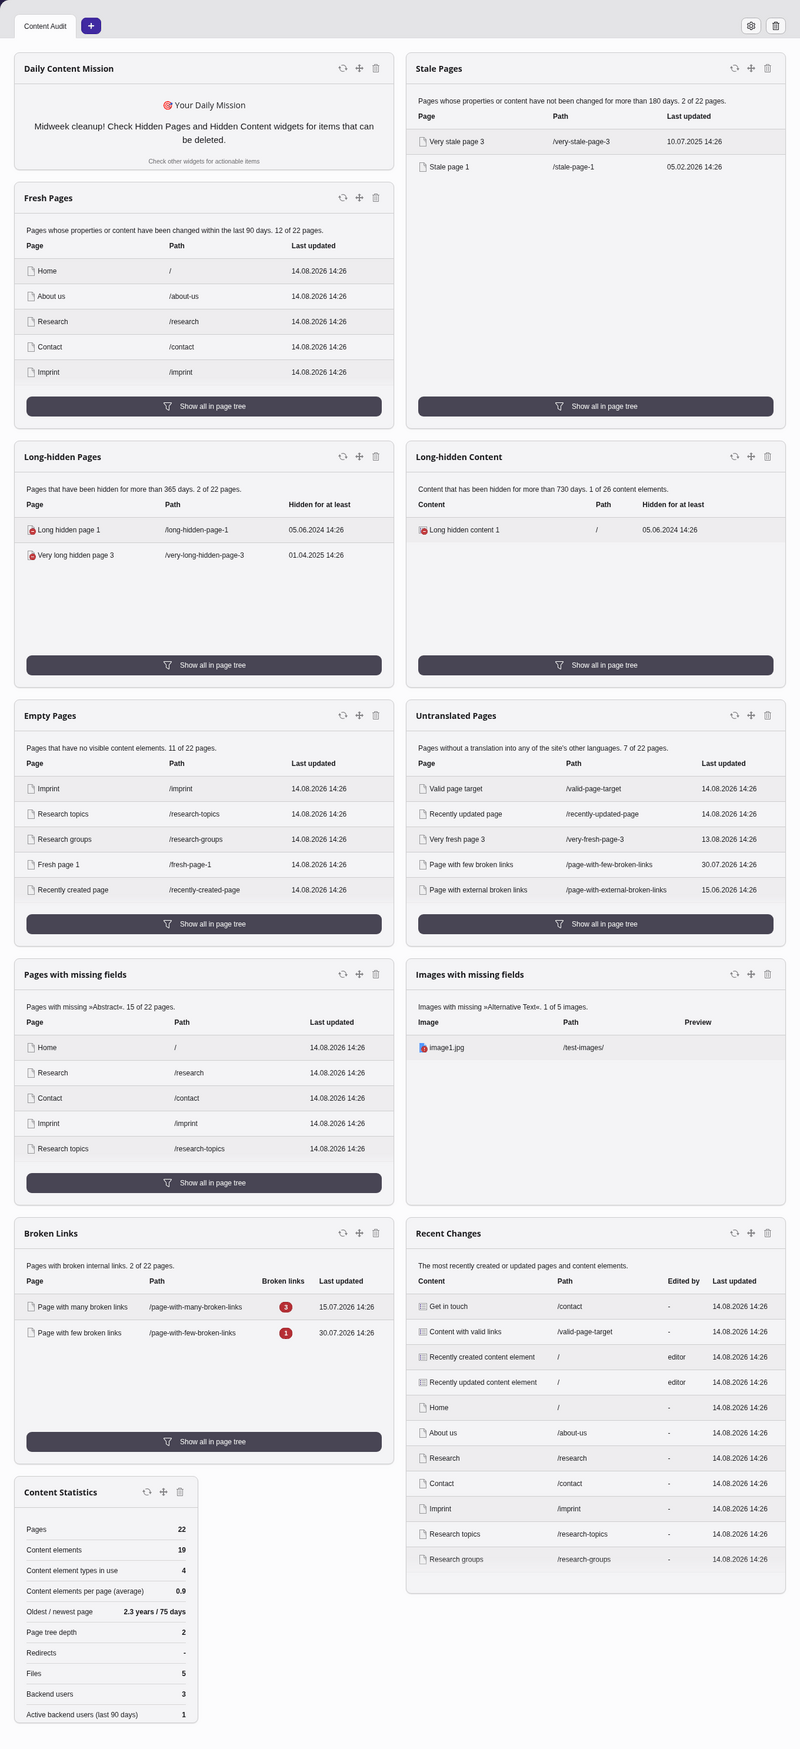
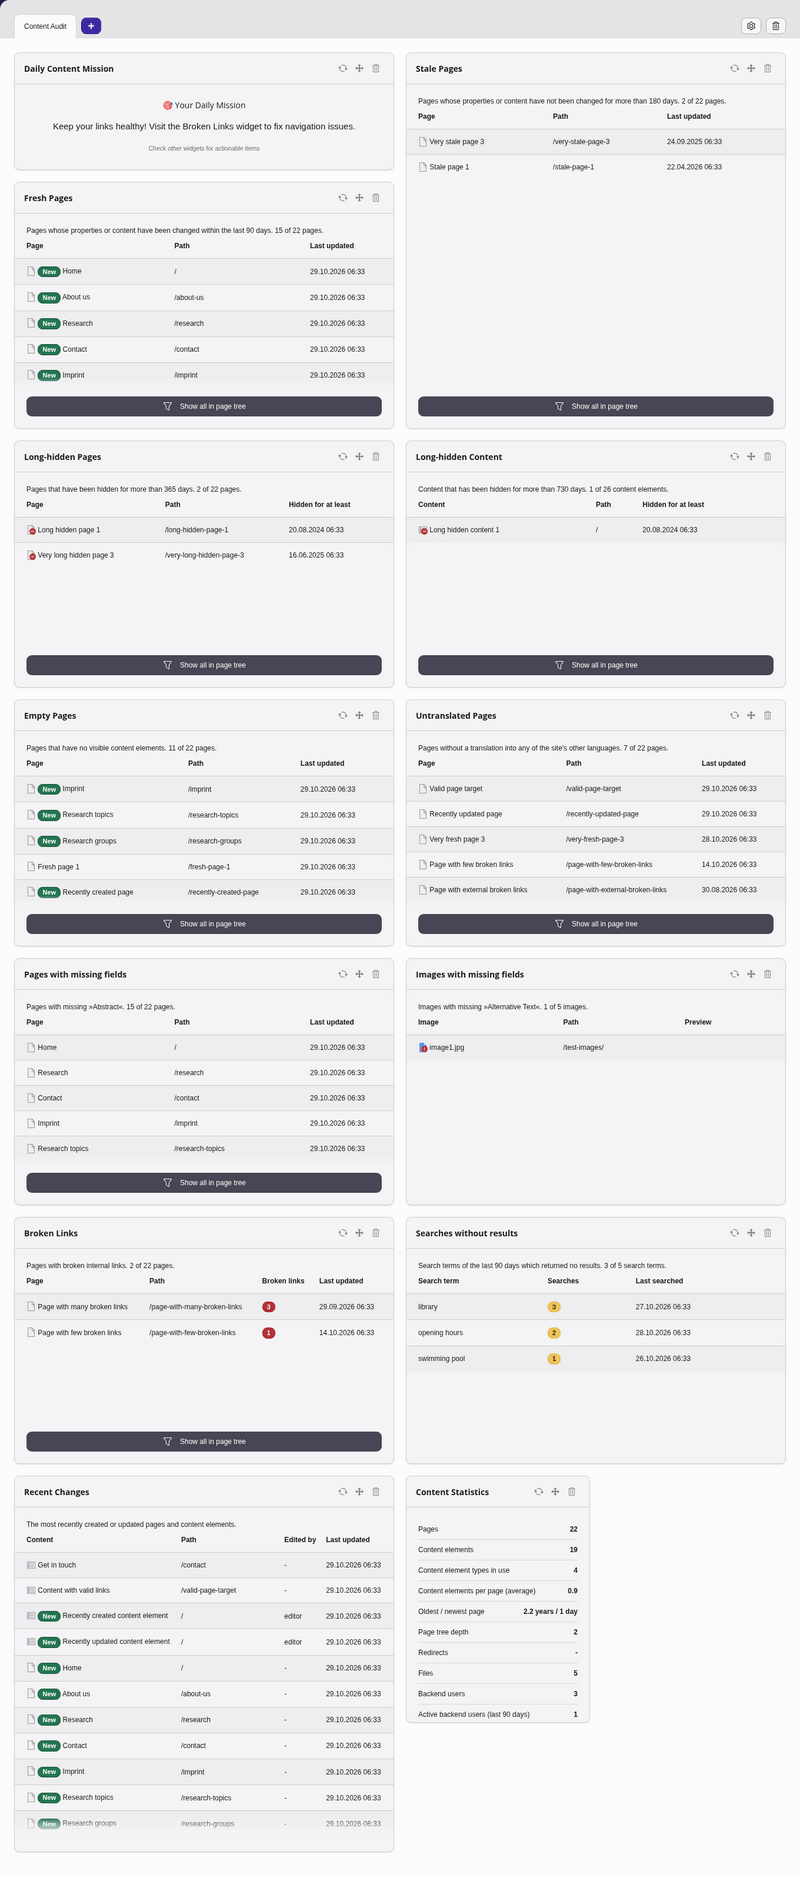
feat: 📝 Update screenshots
Add new search widget to the screenshot

diff --git a/README.md b/README.md
@@ -109,12 +109,13 @@ options.dashboard.dashboardPresetsForNewUsers = tx_ximatypo3contentaudit_dashboa
 ### Widget Configuration
 
 You may configure the widgets by adjusting the available parameters.
-Copy and paste the `parameters` section from the
-[Services.yaml](./Configuration/Services.yaml) file into your own
-and adjust the values as needed.
 
-To exclude certain pages from the stale pages widget,
-you may add this to your sitepackage:
+To do so copy and paste the `parameters` section from the
+[Services.yaml](./Configuration/Services.yaml) file into your own
+`Services.yaml` file of your sitepackage and adjust the values as needed.
+
+For example: To exclude certain pages from the stale pages widget,
+you may add this block to your sitepackage:
 
 _EXT:acme_sitepackage/Configuration/Services.yaml_
 ```yaml
@@ -123,6 +124,13 @@ parameters:
     refreshAvailable: true
     excludePageUids: [4,8,15,16,23,42]
 ```
+
+Available options for the widgets include:
+- page UIDs to exclude (e.g. hide legal pages like imprint or privacy from stale pages)
+- day thresholds for timespans (e.g. pages are stale after 180 days on a mature site, and after 60 days on a new one)
+- minimum search counts (e.g. list searches without results only after 5 hits, to filter out typos)
+- field names for the missing fields widgets (e.g. check pages for `description` instead of the default `abstract`)
+- other widget-specific settings
 
 ### Adding Multiple Widgets of the Same Type
 
